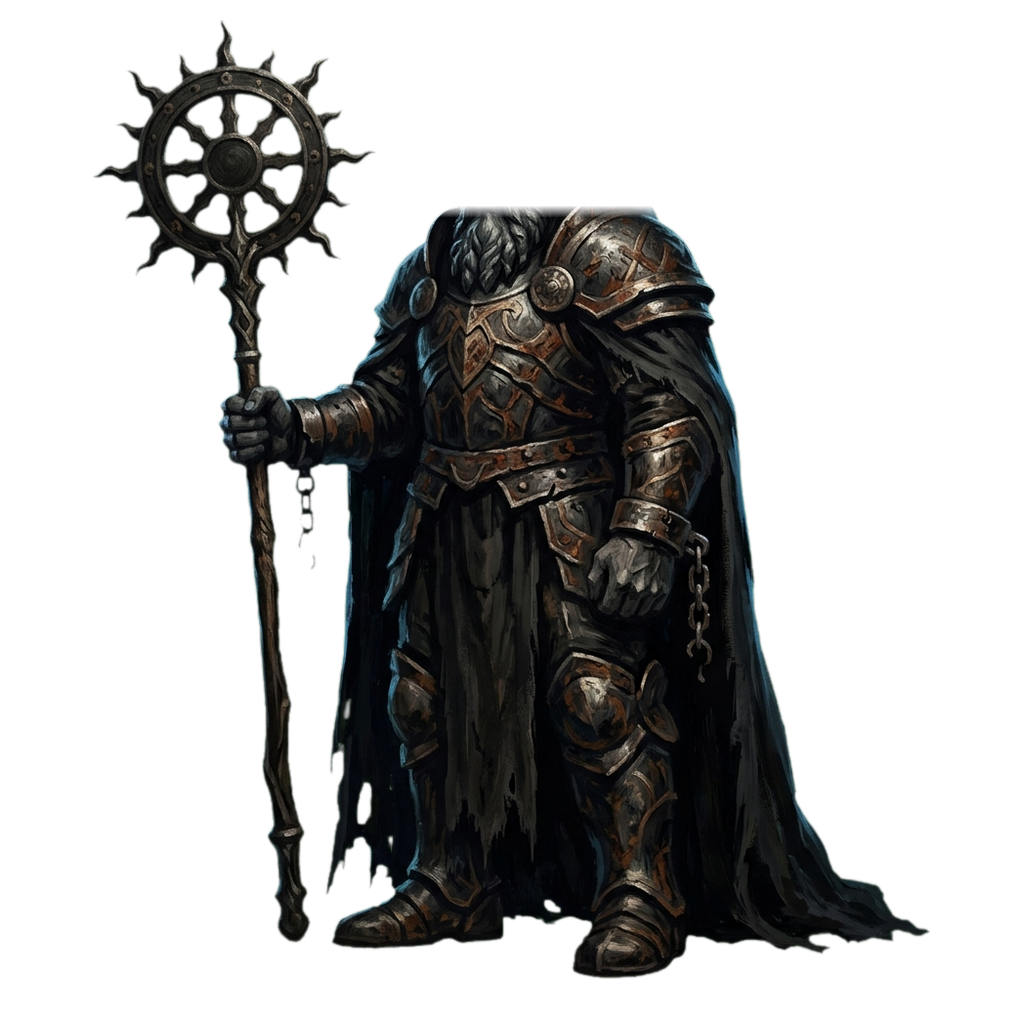
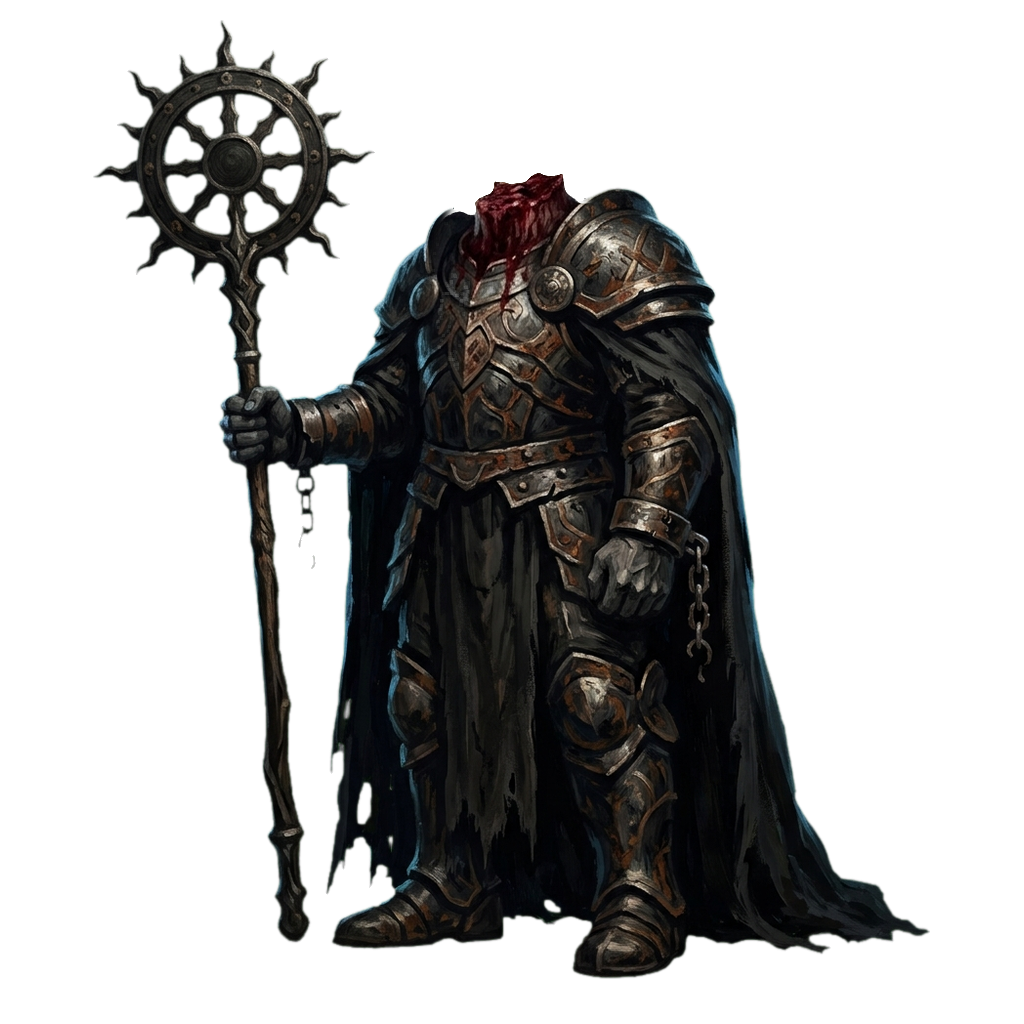
Chernobog's rig painted in Flow: a real head and a beheaded body instead of square cuts, and corpses lying down instead of the standing picture turned over. The rig commands press Escape after attaching and pick the visible upload

Changed region(s): [[0.4062, 0.1562, 0.6562, 0.3438]]

diff --git a/tools/flow_rig_cmds.py b/tools/flow_rig_cmds.py
@@ -19,7 +19,7 @@ def attach(foe, first):
     lines = ["click getByRole('button', { name: 'Добавить ингредиенты в окно запроса' })", "wait 1200"]
     if first:
         lines += [f"upload getByRole('button', {{ name: 'Загрузить' }}).last() {UP}/rig_{foe}.png", "wait 9000"]
-    lines += [f"click getByText('rig_{foe}.png').last()", "wait 1000", ADD, "wait 800"]
+    lines += [f'click "text=rig_{foe}.png >> visible=true >> nth=0"', "wait 1000", ADD, "wait 800", "press Escape", "wait 500"]
     return lines
 
 
@@ -51,7 +51,7 @@ def main():
                 f"background, square 1:1, one single image, no text. Only {head} is gone, cut off and absent; at the neck, a raw bloody neck "
                 "stump with a little dark blood under it. Plain green where the head was. Nothing else changes.")
     out = attach(foe, True) + ask(mask, f"{foe}_mask") + attach(foe, False) + ask(body, f"{foe}_body") + attach(foe, False) + ask(dead, f"{foe}_dead")
-    out += ['click "[role=group] img >> nth=0" --button right', "wait 1000", 'click "text=Добавить в запрос"', "wait 1000"]
+    out += ['click "[role=group] img >> nth=0" --button right', "wait 1000", 'click "text=Добавить в запрос"', "wait 1000", "press Escape", "wait 500"]
     out += ask(headless, f"{foe}_deadhl")
     print("\n".join(out))
 

diff --git a/crates/game/src/battle/rig.rs b/crates/game/src/battle/rig.rs
@@ -167,7 +167,7 @@ const FIGURES: &[(&str, &[Cut])] = &[
     ("enemies/obderikha", &[(Part::Head, Vec2::new(0.448, 0.16), 1.0)]),
     ("enemies/chernobog_priest", &[(Part::Head, Vec2::new(0.552, 0.19), 1.0)]),
     ("enemies/alkonost", &[(Part::Head, Vec2::new(0.28, 0.24), 1.0)]),
-    ("enemies/chernobog", &[(Part::Head, Vec2::new(0.601, 0.206), 1.0)]),
+    ("enemies/chernobog", &[(Part::Head, Vec2::new(0.5, 0.21), 1.0)]),
     ("enemies/zhlya", &[(Part::Head, Vec2::new(0.467, 0.188), 1.0)]),
     ("enemies/karna", &[(Part::Head, Vec2::new(0.547, 0.16), 1.0)]),
     ("enemies/idolishche", &[(Part::Head, Vec2::new(0.458, 0.1), 1.0)]),
